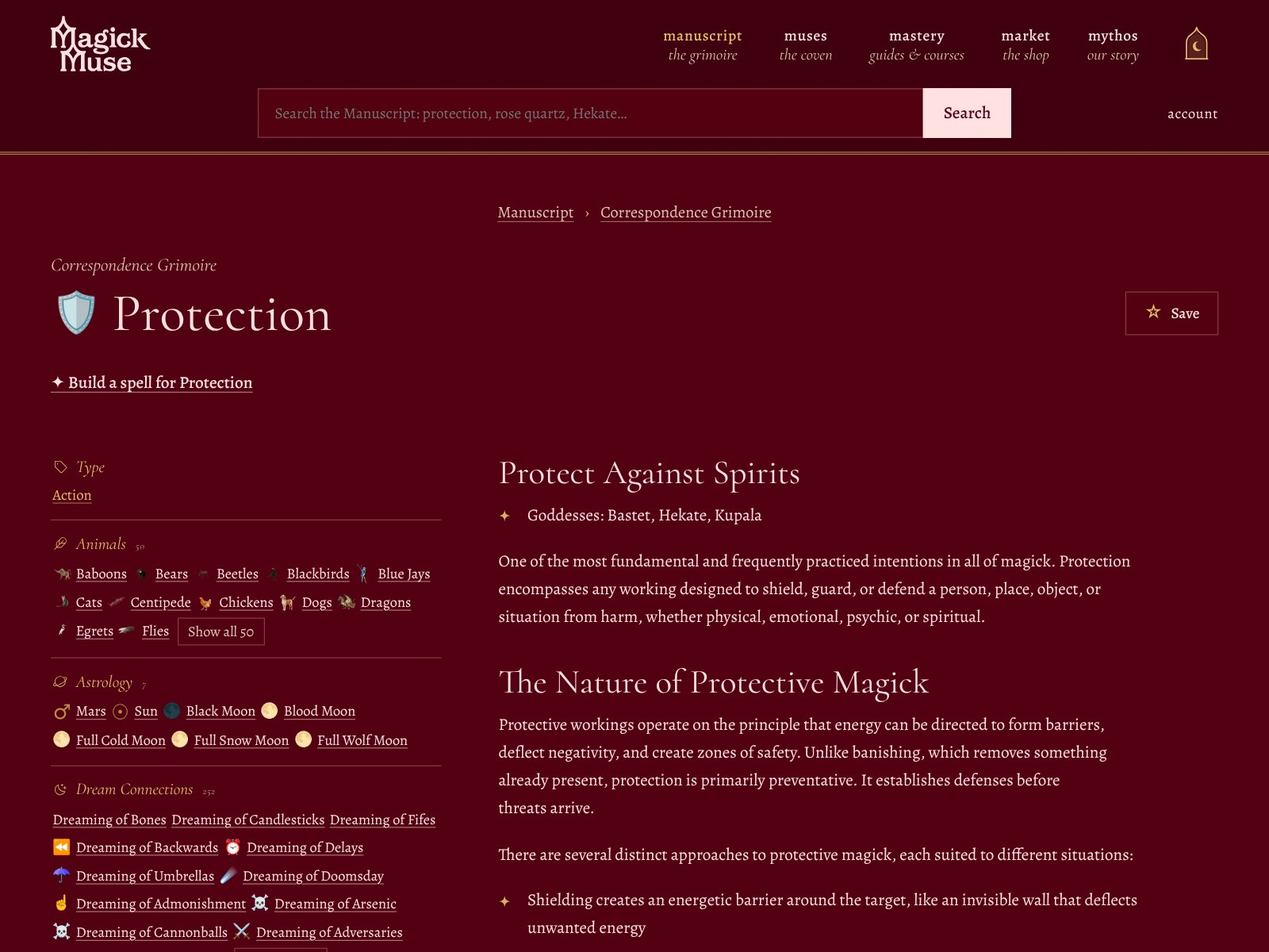
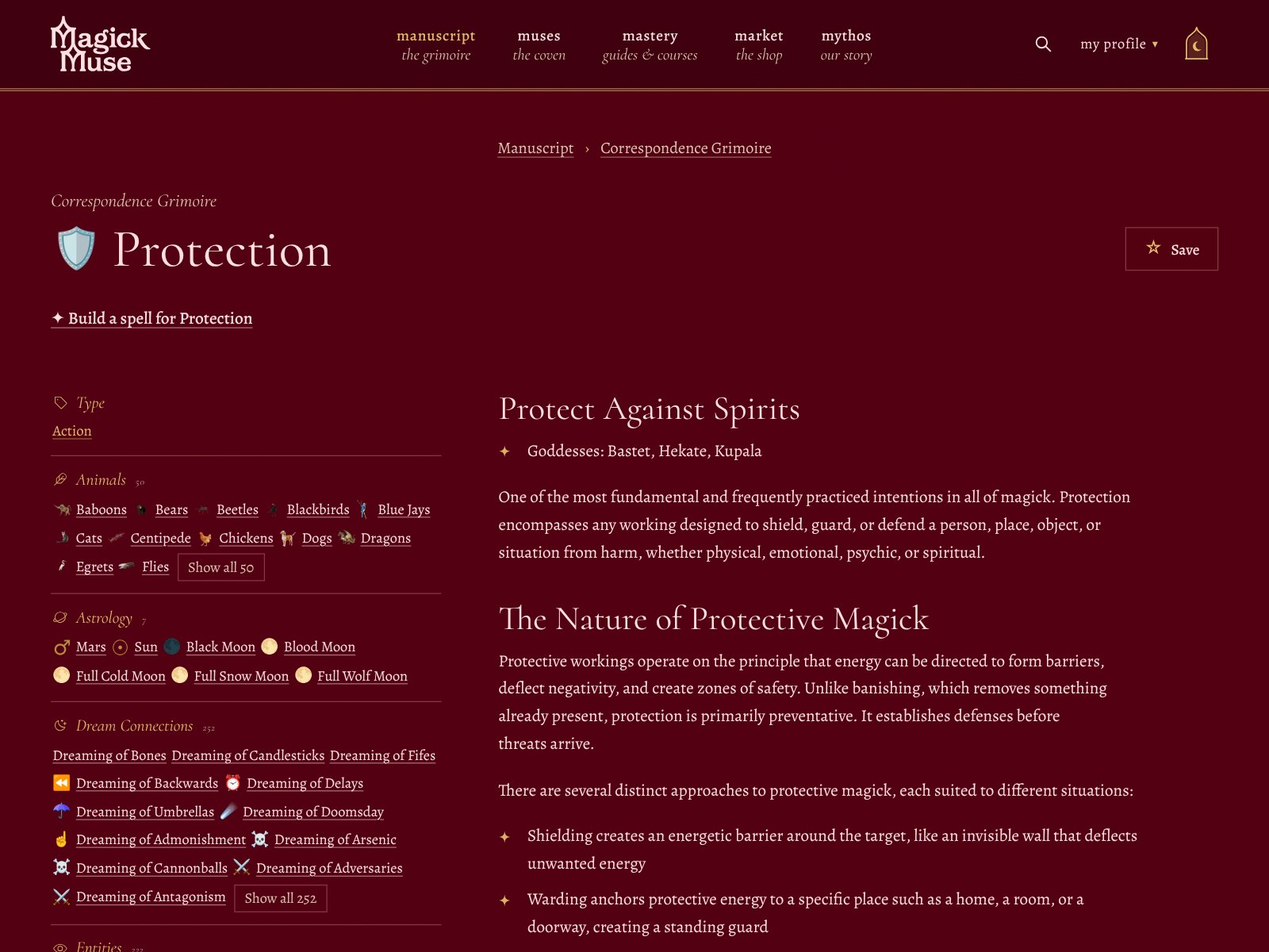
Join page: the description redesigned in parts; a look inside the Protection page
The opening line set large in italic and its reveal in gold; the numbers as a row of figures; the
fifteen grimoires as labels; the tools as cards with icons (the calendar leading, framed in gold);
What You Get as a framed checklist; Why It's Different as tiles; a closing callout. The copy is in
parts in manuscript-copy.php (*stars* mark gold words). A framed screenshot of the Protection page
(retaken with the new header) leads to the free sneak peek. The Discord and curator links at the
bottom are gone.

Claude-Session: https://claude.ai/code/session_01XEMf5iAfStqwCnALF73gC2

diff --git a/manuscript/join/index.html b/manuscript/join/index.html
@@ -46,11 +46,9 @@
 </section>
 <div class="join-layout">
   <section class="join-copy">
-  <div class="mm-prose"><p>Imagine having a witchcraft library that never stops growing. One that knows when you look up protection, you probably also want to know which crystals carry that energy, which plants strengthen it, which deities preside over it, and which rituals have been used across centuries to invoke it. One that lets you pull on any thread and follow it as deep as you want to go. <strong>That is what the Magick Manuscript is.</strong></p><p>This is a 20,000+ page living grimoire built from years of research across hundreds of published witchcraft books. It holds 15 grimoires covering rituals and spells, deities and spirits, plants, minerals, oils, recipes, animals, correspondences, symbols, runes, tarot and cards, astrology, timing, dreams, and ritual materials. Every single entry is cross-linked to every related entry across every other grimoire. Nothing exists in isolation here.</p><h3>It doesn’t just sit there. It works with you.</h3><p>The Manuscript comes with tools that put all of that research to use in your actual practice, every single day.</p><ul><li><strong>The Calendar, in your own calendar.</strong> Add it to Google, Apple or Outlook in one tap: every festival of the year and every new, quarter and full moon, at the exact moment in your own time zone. Each event links straight to its page in the Manuscript, and it keeps itself up to date.</li><li><strong>Today’s Correspondences.</strong> The moon phase, the planet that rules the day, the Sun’s sign and the season, with the herbs, crystals, colors, oils and spells that suit them. Worked out fresh every day.</li><li><strong>Draw a Card.</strong> Pull your daily tarot card from a face-down fan. It lands upright or reversed and takes you straight to that card’s page, with all its meanings, keywords and interpretations.</li><li><strong>300+ tarot spreads, ready to read.</strong> Deal any spread digitally and turn the cards over one by one, or follow its layout with your own deck at your altar.</li><li><strong>Dream Decoder.</strong> Write down your dream and the symbols in it light up, each with what it means.</li><li><strong>Planetary Hours.</strong> Worked out from your own sunrise and sunset, so you always know which planet rules the hour you’re working in.</li><li><strong>Pull a Rune.</strong> Draw from the Elder Futhark or the Witch’s Runes and go straight to the stone’s meaning.</li><li><strong>Spell Builder.</strong> Choose what your spell is for and the Manuscript gathers the days, colors, herbs, stones, oils, deities and rituals tied to it. Save it as a working to come back to.</li><li><strong>Correspondence Wheels.</strong> Choose a planet, a zodiac sign or a moon phase and see everything tied to it at once.</li><li><strong>Your own notes.</strong> Write private notes on any page, save the pages you keep coming back to, and find it all in your account.</li><li><strong>A 30-day beginner path.</strong> One page a day, from the basics to working with deities and spirits, emailed to you at 11:11 each morning or read at your own pace.</li></ul><p><strong>What you get:</strong></p><ul><li>20,000+ pages of witchcraft reference sourced <strong>exclusively from published books</strong></li><li>15 cross-linked grimoires covering every area of practice</li><li>170+ guide pages across the grimoires to help you apply the knowledge meaningfully</li><li>Every tool above, on your phone or your computer</li><li>Access to every update ever made and every update that will ever be made</li><li>Instant access to our Discord community of 950+ practitioners where members share knowledge, experiences, and tips <strong>(and where I drop exclusive discount codes)</strong></li></ul><hr><p>It is always being added to and updated. Since July 2025, over <strong>200,000 updates</strong> have been made across all 15 grimoires and that number grows every week. Pricing will increase as the Manuscript continues to grow. Lock in the current price while it lasts.</p></div>
-  <ul class="highlights"><li><strong>Guide Pages</strong> in each grimoire to aid you in using the knowledge.</li><li><strong>Consult the Curator</strong> should you have any questions, recommendations, or requests you can message me personally.</li><li><strong>Reputable Sources Only</strong> you won&#039;t find any social media spells or random unsourced information here.</li><li><strong>Join the Community</strong> with over 950 witches in our Discord coven who use this as the basis of their craft.</li><li><strong>Ethically Flagged</strong> closed practices are clearly marked so you know what&#039;s meant only for those within the originating culture.</li></ul>
-  <div class="actions community"><a class="link" href="https://discord.com/invite/PBr2BtCpxk" target="_blank" rel="noopener">Join Our Discord Coven</a><a class="link" href="../../mythos">Curious About the Curator?</a></div>
-  <details class="terms" id="terms"><summary>Terms of Access</summary><div class="mm-prose"><p>Terms of Access</p><p>This work is the property of the creator, Avelynn of The Magick Muse.</p><p>Lifetime access lasts for the life of the Manuscript itself, not a fixed term. Monthly access lasts while your subscription is active: cancel anytime from your account, and you keep access until the end of the month you have paid for. Access is to read only. You may read, reference, and discuss the content. You may not duplicate, copy, export, screenshot for redistribution, share your sign-in, or reproduce any part of this manuscript elsewhere, in whole or in part, without express written permission.</p><p>Access is to the live, continuously updated Manuscript. It grows and changes over time; your access reflects its current and future state for as long as it remains active, not a fixed copy.</p><p>All sales are final. The Manuscript is a digital product and access is granted immediately after payment, so no refunds are given.</p><p>Violating these terms (including unauthorized copying, sharing access, or redistributing content) will result in immediate loss of access without refund, and may result in legal action.</p></div></details>
-</section>
+    <div class="jc-open"><p class="jc-quote">Imagine having a witchcraft library that never stops growing.</p><p>One that knows when you look up protection, you probably also want to know which crystals carry that energy, which plants strengthen it, which deities preside over it, and which rituals have been used across centuries to invoke it. One that lets you pull on any thread and follow it as deep as you want to go.</p><p class="jc-reveal">That is what the Magick Manuscript is.</p></div><dl class="jc-stats"><div><dt>20,000+</dt><dd>pages</dd></div><div><dt>15</dt><dd>cross-linked grimoires</dd></div><div><dt>170+</dt><dd>guide pages</dd></div><div><dt>200,000+</dt><dd>updates since July 2025</dd></div></dl><p class="jc-about">A living grimoire built from years of research across <strong class="gold">hundreds of published witchcraft books</strong>. Every single entry is cross-linked to every related entry across every other grimoire. Nothing exists in isolation here.</p><ul class="jc-grimoires" aria-label="The fifteen grimoires"><li>Rituals &amp; Spells</li><li>Deities &amp; Spirits</li><li>Plants</li><li>Minerals</li><li>Oils</li><li>Recipes</li><li>Animals</li><li>Correspondences</li><li>Symbols</li><li>Runes</li><li>Tarot &amp; Cards</li><li>Astrology</li><li>Timing</li><li>Dreams</li><li>Ritual Materials</li></ul><figure class="jc-peek"><a href="../../manuscript/sneak-peek/"><img src="../../assets/manuscript-protection.jpg?v=1795237018" alt="The Protection page in the Manuscript: its connections to animals, astrology and dreams beside its guide to protective magick" width="1600" height="1200" loading="lazy"></a><figcaption><span class="eyebrow">A Look Inside</span> The Protection page, exactly as members see it. <a class="link" href="../../manuscript/sneak-peek/">Read it free</a></figcaption></figure><section class="jc-tools"><h2>It doesn’t just sit there. It works with you.</h2><p class="jc-lead">The Manuscript comes with tools that put all of that research to use in your actual practice, every single day.</p><ul><li><span class="prop-glyph pi-calendar-dots" aria-hidden="true"></span><h3>The Calendar, in your own calendar</h3><p>Add it to Google, Apple or Outlook in one tap: every festival of the year and every new, quarter and full moon, at the exact moment in <strong class="gold">your own time zone</strong>. Each event links straight to its page, and it keeps itself up to date.</p></li><li><span class="prop-glyph pi-sun" aria-hidden="true"></span><h3>Today’s Correspondences</h3><p>The moon phase, the planet that rules the day, the Sun’s sign and the season, with the herbs, crystals, colors, oils and spells that suit them. Worked out fresh every day.</p></li><li><span class="prop-glyph pi-cards" aria-hidden="true"></span><h3>Draw a Card</h3><p>Pull your daily tarot card from a face-down fan. It lands upright or reversed and takes you straight to that card’s meanings, keywords and interpretations.</p></li><li><span class="prop-glyph pi-layout" aria-hidden="true"></span><h3>300+ Tarot Spreads</h3><p>Deal any spread digitally and turn the cards over one by one, or follow its layout with your own deck at your altar.</p></li><li><span class="prop-glyph pi-sparkle" aria-hidden="true"></span><h3>Dream Decoder</h3><p>Write down your dream and the symbols in it light up, each with what it means.</p></li><li><span class="prop-glyph pi-hourglass" aria-hidden="true"></span><h3>Planetary Hours</h3><p>Worked out from your own sunrise and sunset, so you always know which planet rules the hour you’re working in.</p></li><li><span class="prop-glyph pi-key" aria-hidden="true"></span><h3>Pull a Rune</h3><p>Draw from the Elder Futhark or the Witch’s Runes and go straight to the stone’s meaning.</p></li><li><span class="prop-glyph pi-flame" aria-hidden="true"></span><h3>Spell Builder</h3><p>Choose what your spell is for and the Manuscript gathers the days, colors, herbs, stones, oils, deities and rituals tied to it. Save it as a working to come back to.</p></li><li><span class="prop-glyph pi-circles-three" aria-hidden="true"></span><h3>Correspondence Wheels</h3><p>Choose a planet, a zodiac sign or a moon phase and see everything tied to it at once.</p></li><li><span class="prop-glyph pi-note-pencil" aria-hidden="true"></span><h3>Your Own Notes</h3><p>Write private notes on any page, save the pages you keep coming back to, and find it all in your account.</p></li><li><span class="prop-glyph pi-scroll" aria-hidden="true"></span><h3>A 30-Day Beginner Path</h3><p>One page a day, from the basics to working with deities and spirits, emailed to you at 11:11 each morning or read at your own pace.</p></li></ul></section><section class="jc-gets"><h2>What You Get</h2><ul><li>20,000+ pages of witchcraft reference sourced <strong class="gold">exclusively from published books</strong></li><li>15 cross-linked grimoires covering every area of practice</li><li>170+ guide pages across the grimoires to help you apply the knowledge meaningfully</li><li>Every tool above, on your phone or your computer</li><li>Access to every update ever made and every update that will ever be made</li><li>Instant access to our Discord community of 950+ practitioners, where members share knowledge, experiences and tips <strong class="gold">(and where I drop exclusive discount codes)</strong></li></ul></section><section class="jc-why"><h2>Why It’s Different</h2><ul><li><h3>Reputable Sources Only</h3><p>You won’t find social media spells or random unsourced information here.</p></li><li><h3>Ethically Flagged</h3><p>Closed practices are clearly marked, so you know what’s meant only for those within the originating culture.</p></li><li><h3>Guide Pages</h3><p>In every grimoire, to help you use the knowledge.</p></li><li><h3>Consult the Curator</h3><p>Questions, recommendations or requests? Message me personally.</p></li><li><h3>Join the Community</h3><p>Over 950 witches in our Discord coven use this as the basis of their craft.</p></li></ul></section><aside class="jc-closing"><p>It is always being added to. Since July 2025, over <strong class="gold">200,000 updates</strong> have been made across all 15 grimoires, and that number grows every week.</p><p class="jc-urgent">Pricing will increase as the Manuscript continues to grow. Lock in the current price while it lasts.</p></aside>
+    <details class="terms" id="terms"><summary>Terms of Access</summary><div class="mm-prose"><p>Terms of Access</p><p>This work is the property of the creator, Avelynn of The Magick Muse.</p><p>Lifetime access lasts for the life of the Manuscript itself, not a fixed term. Monthly access lasts while your subscription is active: cancel anytime from your account, and you keep access until the end of the month you have paid for. Access is to read only. You may read, reference, and discuss the content. You may not duplicate, copy, export, screenshot for redistribution, share your sign-in, or reproduce any part of this manuscript elsewhere, in whole or in part, without express written permission.</p><p>Access is to the live, continuously updated Manuscript. It grows and changes over time; your access reflects its current and future state for as long as it remains active, not a fixed copy.</p><p>All sales are final. The Manuscript is a digital product and access is granted immediately after payment, so no refunds are given.</p><p>Violating these terms (including unauthorized copying, sharing access, or redistributing content) will result in immediate loss of access without refund, and may result in legal action.</p></div></details>
+  </section>
   <aside class="join-plans" id="plans" aria-label="Membership plans"><section class="cards pairs plans stack"><form class="card plan" method="post" action="../../manuscript/checkout/"><input type="hidden" name="csrf" value="ad00d92db2e7ffa5150199a9430a6968"><input type="hidden" name="plan" value="lifetime"><input type="hidden" name="code" value=""><h3>Lifetime access</h3><p class="price big">$333</p><p>One payment. Every update ever made, and every one to come.</p><label class="agree"><input type="checkbox" name="agree" value="1" required> I agree to the <a href="#terms">Terms of Access</a></label><button class="btn" type="submit">Get access</button></form><form class="card plan" method="post" action="../../manuscript/checkout/"><input type="hidden" name="csrf" value="ad00d92db2e7ffa5150199a9430a6968"><input type="hidden" name="plan" value="monthly"><input type="hidden" name="code" value=""><h3>Monthly access</h3><p class="price big">$33 a month</p><p>Everything in the Manuscript, every update included. Cancel anytime.</p><label class="agree"><input type="checkbox" name="agree" value="1" required> I agree to the <a href="#terms">Terms of Access</a></label><button class="btn" type="submit">Get access</button></form></section><p class="center small">Secure checkout by Stripe. After paying you're signed in straight away. Already a member? <a href="../../manuscript/login/">Sign in</a></p></aside>
 </div>
 

diff --git a/styles.css b/styles.css
@@ -1157,16 +1157,61 @@ details.toggle > :not(summary) + :not(summary) { margin-top: var(--gap-text); }
 .product-desc > h3 { margin-top: var(--gap-h3-before); }
 .product-desc > h2 + * { margin-top: var(--gap-head); }
 .product-desc > h3 + * { margin-top: var(--gap-h3); }
-.highlights { list-style: none; margin: 0; padding: 1.6rem; display: grid; gap: .8rem; border: 1px solid var(--line); background: var(--surface); }
-.highlights li { padding-left: 1.4rem; position: relative; }
-.highlights li::before {
-  content: ""; position: absolute; left: 0; top: .45rem; width: .7rem; height: .7rem; background: var(--gold);
-  -webkit-mask: var(--star) center / contain no-repeat; mask: var(--star) center / contain no-repeat;
-}
 .terms summary { cursor: pointer; font-size: .95rem; text-transform: none; }
 .terms .mm-prose { margin-top: var(--gap-text); font-size: .92rem; color: var(--muted); }
 .community { gap: 1.6rem; }
 .refund { margin-top: -.4rem; }
+/* The Join page's description (join_copy_html() in account.php): each part in its own design. */
+.join-copy { gap: clamp(2.2rem, 4vw, 3rem); }
+.join-copy strong.gold { color: var(--gold-text); font-weight: 600; }
+.jc-open p { font-size: 1.08rem; line-height: 1.75; margin: 0; }
+.jc-open .jc-quote { font-family: var(--display); font-style: italic; font-size: clamp(1.9rem, 3.4vw, 2.6rem); line-height: 1.2; margin-bottom: 1rem; }
+.jc-open .jc-reveal { font-family: var(--display); font-size: 1.7rem; line-height: 1.3; color: var(--gold-text); margin-top: 1.2rem; padding-left: 1rem; border-left: 2px solid var(--gold); }
+.jc-stats { display: grid; grid-template-columns: repeat(4, minmax(0, 1fr)); margin: 0; border-block: 1px solid var(--line); }
+.jc-stats div { padding: 1.3rem .6rem; text-align: center; }
+.jc-stats div + div { border-left: 1px solid var(--line); }
+@media (max-width: 600px) { /* two by two */
+  .jc-stats { grid-template-columns: repeat(2, minmax(0, 1fr)); }
+  .jc-stats div:nth-child(odd) { border-left: 0; }
+  .jc-stats div:nth-child(n+3) { border-top: 1px solid var(--line); }
+}
+.jc-stats dt { font-family: var(--display); font-size: clamp(2rem, 3.4vw, 2.7rem); line-height: 1; color: var(--gold-text); }
+.jc-stats dd { margin: .4rem 0 0; font-family: var(--display); font-style: italic; font-size: 1.05rem; color: var(--muted); }
+.jc-about { font-size: 1.05rem; line-height: 1.75; margin: 0; }
+.jc-grimoires { list-style: none; display: flex; flex-wrap: wrap; gap: .45rem; padding: 0; margin: -1.2rem 0 0; }
+.jc-grimoires li { border: 1px solid var(--line); background: var(--surface); padding: .25rem .75rem; font-size: .85rem; }
+.jc-peek { margin: 0; display: grid; gap: .7rem; }
+.jc-peek img { display: block; width: 100%; height: auto; border: 1px solid var(--gold); outline: 1px solid color-mix(in srgb, var(--gold) 45%, transparent); outline-offset: 5px; box-shadow: 0 18px 40px rgba(0, 0, 0, .3); }
+.jc-peek a:hover img { border-color: var(--accent); }
+.jc-peek figcaption { font-size: .95rem; color: var(--muted); }
+.jc-peek figcaption .eyebrow { display: block; margin-bottom: .1rem; }
+.join-copy h2 { font-family: var(--display); font-weight: 400; font-size: clamp(1.8rem, 3vw, 2.3rem); line-height: 1.2; margin: 0 0 .5rem; }
+.jc-lead { font-family: var(--display); font-style: italic; font-size: 1.2rem; color: var(--muted); margin: 0; }
+.jc-tools ul { list-style: none; padding: 0; margin: 1.4rem 0 0; display: grid; grid-template-columns: repeat(auto-fill, minmax(15rem, 1fr)); gap: 1rem; }
+.jc-tools li { display: grid; grid-template-columns: auto 1fr; column-gap: .7rem; row-gap: .35rem; align-content: start; padding: 1.1rem 1.2rem; border: 1px solid var(--line); background: var(--surface); }
+.jc-tools li .prop-glyph { width: 1.4rem; height: 1.4rem; align-self: center; }
+.jc-tools li h3 { font-family: var(--display); font-weight: 400; font-size: 1.3rem; line-height: 1.2; margin: 0; align-self: center; }
+.jc-tools li p { grid-column: 1 / -1; margin: 0; font-size: .93rem; line-height: 1.55; }
+/* the calendar leads: wide, framed in gold */
+.jc-tools li:first-child { grid-column: 1 / -1; border-color: var(--gold); padding: 1.4rem 1.5rem; background: var(--texture), var(--bg); }
+.jc-tools li:first-child h3 { font-size: 1.6rem; color: var(--gold-text); }
+.jc-tools li:first-child p { font-size: 1rem; }
+.join-copy .jc-gets { padding: 1.6rem 1.8rem 1.8rem; border: 1px solid var(--gold); outline: 1px solid color-mix(in srgb, var(--gold) 45%, transparent); outline-offset: -8px; background: var(--texture), var(--bg); }
+.jc-gets ul { list-style: none; padding: 0; margin: 0; display: grid; gap: .75rem; }
+.jc-gets li { position: relative; padding-left: 1.7rem; line-height: 1.55; }
+.jc-gets li::before, .jc-why li::before {
+  content: ""; position: absolute; left: 0; top: .38em; width: .85rem; height: .85rem; background: var(--gold);
+  -webkit-mask: var(--star) center / contain no-repeat; mask: var(--star) center / contain no-repeat;
+}
+.jc-why ul { list-style: none; padding: 0; margin: 0; display: grid; grid-template-columns: repeat(auto-fit, minmax(13rem, 1fr)); gap: 1.4rem 1.8rem; }
+.jc-why li { position: relative; padding-top: .9rem; border-top: 2px solid var(--gold); }
+.jc-why li::before { top: -.5rem; left: 50%; transform: translateX(-50%); width: 1rem; height: 1rem; outline: 4px solid var(--bg); background: var(--gold); }
+.jc-why h3 { font-family: var(--display); font-weight: 400; font-size: 1.3rem; margin: 0 0 .3rem; }
+.jc-why p { margin: 0; font-size: .93rem; line-height: 1.55; color: var(--muted); }
+.jc-closing { text-align: center; padding: 2rem clamp(1.2rem, 4vw, 2.4rem); border: 1px solid var(--line); background: var(--surface); }
+.jc-closing p { margin: 0; line-height: 1.7; }
+.jc-closing .jc-urgent { font-family: var(--display); font-style: italic; font-size: 1.5rem; line-height: 1.3; color: var(--gold-text); margin-top: .8rem; }
+
 /* The Join page: the description on the left, the plans beside it, staying in view while the description scrolls.
    Narrow screens: one column, the plans after the description, with a "See Plans" button at the top to jump to them. */
 .join-layout {

diff --git a/blog/astrology-for-witches.html b/blog/astrology-for-witches.html
@@ -84,7 +84,7 @@
   <link rel="preload" href="../fonts/cormorant-400-italic.woff2" as="font" type="font/woff2" crossorigin>
   <link rel="preload" href="../fonts/alegreya-500.woff2" as="font" type="font/woff2" crossorigin>
   <script src="../prefs.js?v=da5e7b8994"></script>
-  <link rel="stylesheet" href="../styles.css?v=bf62d3d794">
+  <link rel="stylesheet" href="../styles.css?v=ec9b6f9d91">
   <script>
     window.dataLayer = window.dataLayer || [];
     function gtag(){dataLayer.push(arguments);}

diff --git a/blog/candle-magick-for-beginners.html b/blog/candle-magick-for-beginners.html
@@ -84,7 +84,7 @@
   <link rel="preload" href="../fonts/cormorant-400-italic.woff2" as="font" type="font/woff2" crossorigin>
   <link rel="preload" href="../fonts/alegreya-500.woff2" as="font" type="font/woff2" crossorigin>
   <script src="../prefs.js?v=da5e7b8994"></script>
-  <link rel="stylesheet" href="../styles.css?v=bf62d3d794">
+  <link rel="stylesheet" href="../styles.css?v=ec9b6f9d91">
   <script>
     window.dataLayer = window.dataLayer || [];
     function gtag(){dataLayer.push(arguments);}

diff --git a/blog/crystals-for-beginners.html b/blog/crystals-for-beginners.html
@@ -84,7 +84,7 @@
   <link rel="preload" href="../fonts/cormorant-400-italic.woff2" as="font" type="font/woff2" crossorigin>
   <link rel="preload" href="../fonts/alegreya-500.woff2" as="font" type="font/woff2" crossorigin>
   <script src="../prefs.js?v=da5e7b8994"></script>
-  <link rel="stylesheet" href="../styles.css?v=bf62d3d794">
+  <link rel="stylesheet" href="../styles.css?v=ec9b6f9d91">
   <script>
     window.dataLayer = window.dataLayer || [];
     function gtag(){dataLayer.push(arguments);}

diff --git a/blog/essential-witch-tools-for-beginners.html b/blog/essential-witch-tools-for-beginners.html
@@ -84,7 +84,7 @@
   <link rel="preload" href="../fonts/cormorant-400-italic.woff2" as="font" type="font/woff2" crossorigin>
   <link rel="preload" href="../fonts/alegreya-500.woff2" as="font" type="font/woff2" crossorigin>
   <script src="../prefs.js?v=da5e7b8994"></script>
-  <link rel="stylesheet" href="../styles.css?v=bf62d3d794">
+  <link rel="stylesheet" href="../styles.css?v=ec9b6f9d91">
   <script>
     window.dataLayer = window.dataLayer || [];
     function gtag(){dataLayer.push(arguments);}

diff --git a/blog/herbalism-for-witches.html b/blog/herbalism-for-witches.html
@@ -84,7 +84,7 @@
   <link rel="preload" href="../fonts/cormorant-400-italic.woff2" as="font" type="font/woff2" crossorigin>
   <link rel="preload" href="../fonts/alegreya-500.woff2" as="font" type="font/woff2" crossorigin>
   <script src="../prefs.js?v=da5e7b8994"></script>
-  <link rel="stylesheet" href="../styles.css?v=bf62d3d794">
+  <link rel="stylesheet" href="../styles.css?v=ec9b6f9d91">
   <script>
     window.dataLayer = window.dataLayer || [];
     function gtag(){dataLayer.push(arguments);}

diff --git a/blog/how-my-witchcraft-practice-has-changed.html b/blog/how-my-witchcraft-practice-has-changed.html
@@ -84,7 +84,7 @@
   <link rel="preload" href="../fonts/cormorant-400-italic.woff2" as="font" type="font/woff2" crossorigin>
   <link rel="preload" href="../fonts/alegreya-500.woff2" as="font" type="font/woff2" crossorigin>
   <script src="../prefs.js?v=da5e7b8994"></script>
-  <link rel="stylesheet" href="../styles.css?v=bf62d3d794">
+  <link rel="stylesheet" href="../styles.css?v=ec9b6f9d91">
   <script>
     window.dataLayer = window.dataLayer || [];
     function gtag(){dataLayer.push(arguments);}

diff --git a/blog/how-to-cast-a-spell-for-beginners.html b/blog/how-to-cast-a-spell-for-beginners.html
@@ -84,7 +84,7 @@
   <link rel="preload" href="../fonts/cormorant-400-italic.woff2" as="font" type="font/woff2" crossorigin>
   <link rel="preload" href="../fonts/alegreya-500.woff2" as="font" type="font/woff2" crossorigin>
   <script src="../prefs.js?v=da5e7b8994"></script>
-  <link rel="stylesheet" href="../styles.css?v=bf62d3d794">
+  <link rel="stylesheet" href="../styles.css?v=ec9b6f9d91">
   <script>
     window.dataLayer = window.dataLayer || [];
     function gtag(){dataLayer.push(arguments);}

diff --git a/blog/how-to-celebrate-samhain.html b/blog/how-to-celebrate-samhain.html
@@ -84,7 +84,7 @@
   <link rel="preload" href="../fonts/cormorant-400-italic.woff2" as="font" type="font/woff2" crossorigin>
   <link rel="preload" href="../fonts/alegreya-500.woff2" as="font" type="font/woff2" crossorigin>
   <script src="../prefs.js?v=da5e7b8994"></script>
-  <link rel="stylesheet" href="../styles.css?v=bf62d3d794">
+  <link rel="stylesheet" href="../styles.css?v=ec9b6f9d91">
   <script>
     window.dataLayer = window.dataLayer || [];
     function gtag(){dataLayer.push(arguments);}

diff --git a/blog/how-to-dispose-of-a-spell.html b/blog/how-to-dispose-of-a-spell.html
@@ -84,7 +84,7 @@
   <link rel="preload" href="../fonts/cormorant-400-italic.woff2" as="font" type="font/woff2" crossorigin>
   <link rel="preload" href="../fonts/alegreya-500.woff2" as="font" type="font/woff2" crossorigin>
   <script src="../prefs.js?v=da5e7b8994"></script>
-  <link rel="stylesheet" href="../styles.css?v=bf62d3d794">
+  <link rel="stylesheet" href="../styles.css?v=ec9b6f9d91">
   <script>
     window.dataLayer = window.dataLayer || [];
     function gtag(){dataLayer.push(arguments);}

diff --git a/blog/how-to-find-reliable-witchcraft-information.html b/blog/how-to-find-reliable-witchcraft-information.html
@@ -84,7 +84,7 @@
   <link rel="preload" href="../fonts/cormorant-400-italic.woff2" as="font" type="font/woff2" crossorigin>
   <link rel="preload" href="../fonts/alegreya-500.woff2" as="font" type="font/woff2" crossorigin>
   <script src="../prefs.js?v=da5e7b8994"></script>
-  <link rel="stylesheet" href="../styles.css?v=bf62d3d794">
+  <link rel="stylesheet" href="../styles.css?v=ec9b6f9d91">
   <script>
     window.dataLayer = window.dataLayer || [];
     function gtag(){dataLayer.push(arguments);}
